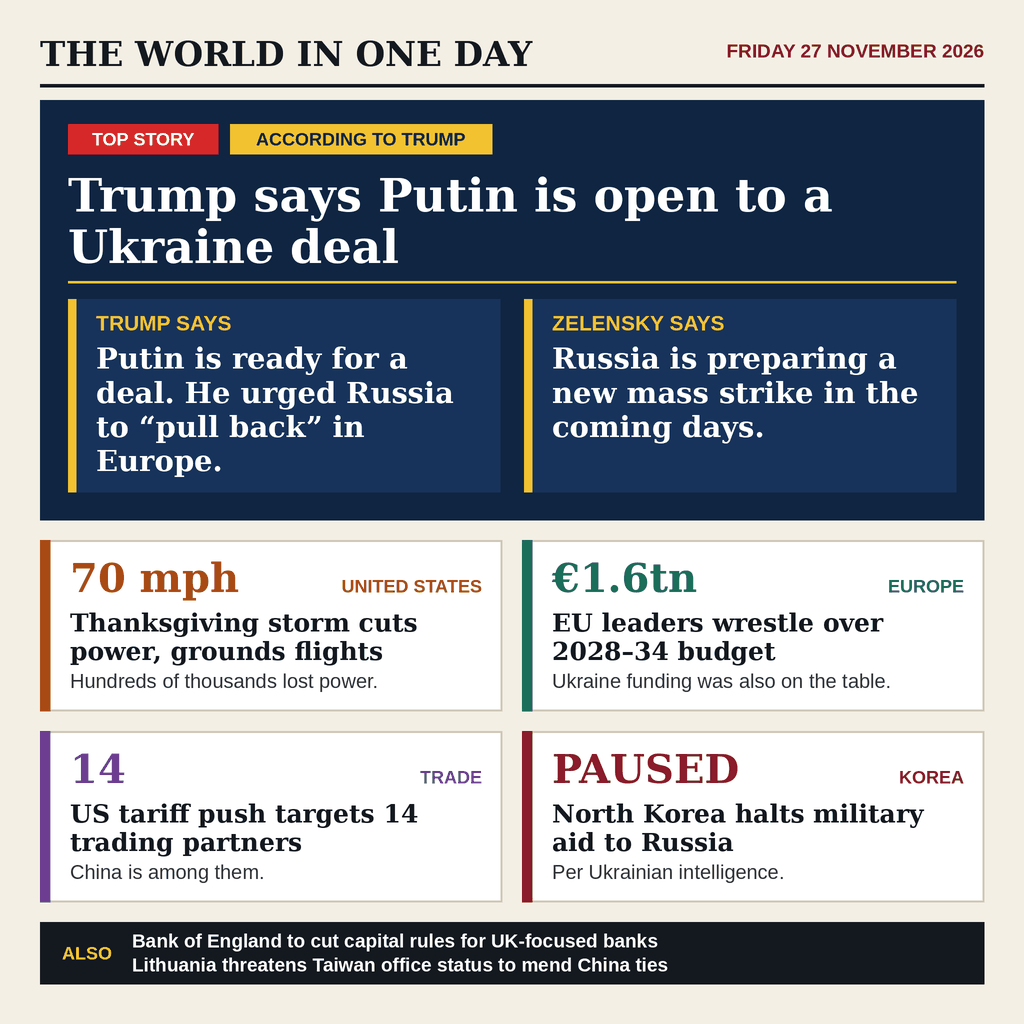
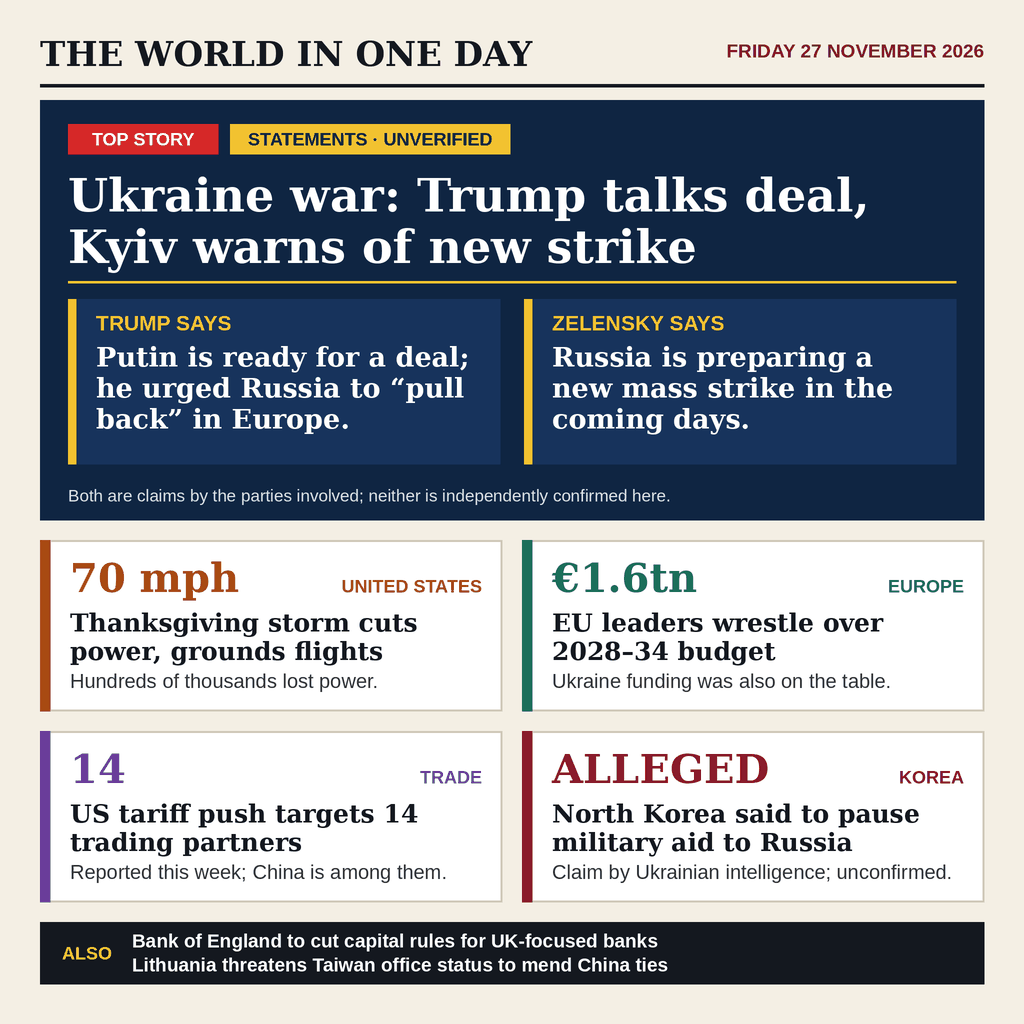
Lead is statements, labelled unverified; flag single-source cards
Headline now describes that statements were made rather than asserting Putin's
willingness; chip and footnote say neither claim is confirmed. Korea card shows
ALLEGED and names its source; trade card says reported. README updated.

diff --git a/tools/build.py b/tools/build.py
@@ -41,18 +41,21 @@ R(M,T,W-M,B,fill="#0f2542")
 TX = M+28; FW = W-2*M-56
 R(TX,T+24,TX+150,T+54,fill="#d62828")
 d.text(((TX+75)*S,(T+39)*S),"TOP STORY",font=F(SANS,18),fill="#fff",anchor="mm")
-R(TX+162,T+24,TX+162+262,T+54,fill="#f2c230")
-d.text(((TX+162+131)*S,(T+39)*S),"ACCORDING TO TRUMP",font=F(SANS,18),fill="#0f2542",anchor="mm")
-yh=text(TX,T+68,"Trump says Putin is open to a Ukraine deal",F(SERIF,46),"#ffffff",FW,lh=1.12,box_bottom=T+190)
+CHIP="STATEMENTS \u00b7 UNVERIFIED"; cwid=d.textlength(CHIP,font=F(SANS,18))/S+36
+R(TX+162,T+24,TX+162+cwid,T+54,fill="#f2c230")
+d.text(((TX+162+cwid/2)*S,(T+39)*S),CHIP,font=F(SANS,18),fill="#0f2542",anchor="mm")
+yh=text(TX,T+68,"Ukraine war: Trump talks deal, Kyiv warns of new strike",F(SERIF,46),"#ffffff",FW,lh=1.12,box_bottom=T+190)
 R(TX,yh+10,TX+FW,yh+12,fill="#f2c230")
-bw=(FW-24)/2; by0=yh+28; by1=B-28
+bw=(FW-24)/2; by0=yh+28; by1=B-56
 for k,(who,role,quote) in enumerate([
-  ("TRUMP SAYS","US PRESIDENT","Putin is ready for a deal. He urged Russia to \u201cpull back\u201d in Europe."),
+  ("TRUMP SAYS","US PRESIDENT","Putin is ready for a deal; he urged Russia to \u201cpull back\u201d in Europe."),
   ("ZELENSKY SAYS","PRESIDENT OF UKRAINE","Russia is preparing a new mass strike in the coming days.")]):
     bx=TX+k*(bw+24)
     R(bx,by0,bx+bw,by1,fill="#17335c"); R(bx,by0,bx+8,by1,fill="#f2c230")
     d.text(((bx+28)*S,(by0+12)*S),who,font=F(SANS,21),fill="#f2c230")
-    text(bx+28,by0+42,quote,F(SERIF,29),"#ffffff",bw-48,lh=1.18,box_bottom=by1-8)
+    text(bx+28,by0+42,quote,F(SERIF,27),"#ffffff",bw-48,lh=1.15,box_bottom=by1-8)
+
+d.text((TX*S,(B-34)*S),"Both are claims by the parties involved; neither is independently confirmed here.",font=F(SANSR,17),fill="#d6e0f0")
 
 # cards: a big figure anchors each story (type carries it, no icons)
 gap=20; cw=(W-2*M-gap)/2; top=B+gap; STRIP=62
@@ -60,8 +63,8 @@ ch=(H-M-STRIP-gap-top-gap)/2
 cards=[
  ("70 mph","UNITED STATES","#a84a12","Thanksgiving storm cuts power, grounds flights","Hundreds of thousands lost power."),
  ("\u20ac1.6tn","EUROPE","#1b6e5a","EU leaders wrestle over 2028\u201334 budget","Ukraine funding was also on the table."),
- ("14","TRADE","#6a3d9a","US tariff push targets 14 trading partners","China is among them."),
- ("PAUSED","KOREA","#8a1c2b","North Korea halts military aid to Russia","Per Ukrainian intelligence."),
+ ("14","TRADE","#6a3d9a","US tariff push targets 14 trading partners","Reported this week; China is among them."),
+ ("ALLEGED","KOREA","#8a1c2b","North Korea said to pause military aid to Russia","Claim by Ukrainian intelligence; unconfirmed."),
 ]
 for i,(big,k,col,hl,sub) in enumerate(cards):
     x0=M+(i%2)*(cw+gap); y0=top+(i//2)*(ch+gap); x1=x0+cw; y1=y0+ch

diff --git a/README.md b/README.md
@@ -21,12 +21,14 @@ overflow or wash out fails the build instead of shipping.
 
 ## What the page says
 
-The lead is labelled `ACCORDING TO TRUMP`: his statement that Putin is open to a
-Ukraine deal, set beside Zelensky's warning of a new Russian mass strike. Cards:
-the Thanksgiving storm, the EU budget summit, US tariffs on 14 partners, and North
-Korea pausing military aid to Russia (per Ukrainian intelligence). A ticker adds
-the Bank of England and Lithuania items. Sources: Reuters items as carried by The
-Standard (HK) morning recap and SBS News, 27 Nov 2026.
+The lead is labelled `STATEMENTS · UNVERIFIED`: Trump's statement that Putin is
+ready for a deal and Zelensky's warning of a new Russian mass strike, each shown
+as an attributed box with a footnote that neither is independently confirmed.
+Cards: the Thanksgiving storm (70 mph), the EU budget summit (EUR 1.6tn), US
+tariffs on 14 partners, and an ALLEGED North Korean pause in aid to Russia (a
+claim by Ukrainian intelligence). A ticker adds the Bank of England and Lithuania
+items. Sources: Reuters items as carried by The Standard (HK) morning recap and
+SBS News, 27 Nov 2026.
 
 ---
 
